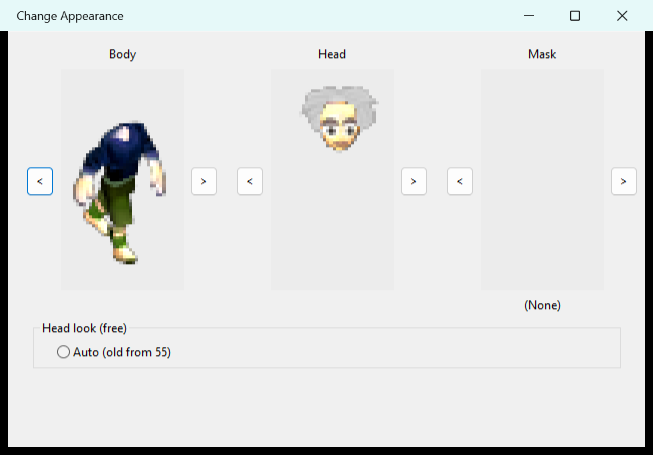
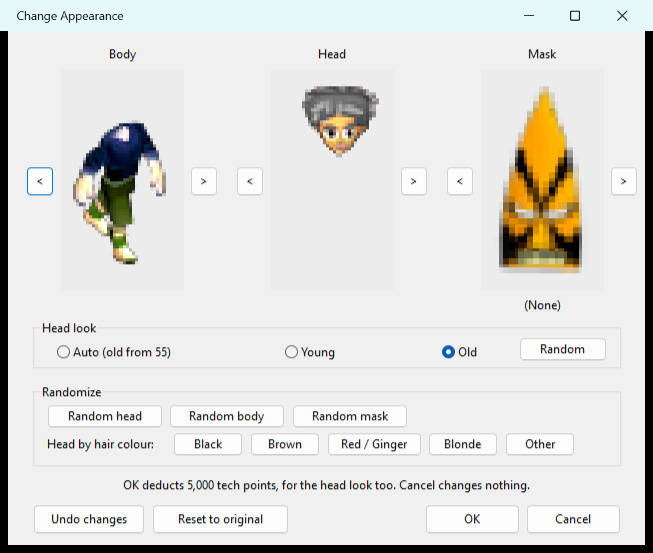
Docs: Change Appearance's new buttons and look rows -- README, How to Use, and pictures of every window
- README (v1.35.85 head-look entry): a look costs what any change costs; For All's per-sex Head look rows;
  Undo changes, Reset to original, the randoms and Head by hair colour in both windows.
- How to Use: a CHANGE APPEARANCE section.
- docs/change-appearance-head-look: each game's window with the look row, without it, and Change
  Appearance for All, rendered from the DLLs' own templates and art (scripts/render_change_appearance.py,
  which now also checks plain radio buttons, as A New Home's For All uses).  The Tree of Life's previews
  stay blank: its window draws the game's own Images\*.png at run time, which the repository does not hold.
- docs/transparency-log.md regenerated, last.

diff --git a/scripts/render_change_appearance.py b/scripts/render_change_appearance.py
@@ -114,7 +114,7 @@ def render(dll: Path, dialog: int, out: Path, previews: dict[int, tuple[int, int
                 style = user32.GetWindowLongW(child, -16)
                 name = ctypes.create_unicode_buffer(32)
                 user32.GetClassNameW(child, name, 32)
-                is_radio = name.value.lower() == "button" and style & 0xF == 9
+                is_radio = name.value.lower() == "button" and style & 0xF in (4, 9)   # BS_RADIOBUTTON, BS_AUTORADIOBUTTON
                 wanted = user32.GetDlgCtrlID(child) in checked if checked else style & 0x00020000   # first of a group
                 if is_radio and wanted:
                     user32.SendMessageW(child, 0x00F1, 1, 0)   # BM_SETCHECK

diff --git a/README.md b/README.md
@@ -25,7 +25,7 @@ prerequisite are rejected before any copied game folder or EXE is written.
 ## What's new in v1.35.85
 
 - **Grey Hair at 55** (A New Home, new, on by default). A villager of 55 years or more is now drawn with a grey-haired version of the same head, the age The Lost Children, The Secret City, The Tree of Life and New Believers switch to their older heads -- in the village, on the map and in the Villager Details portrait, and Change Appearance previews it the same way. Villagers already grey or bald look the same. The Golden Child's head follows the same rule: he himself never grows old, so he never changes, but anyone else given his head shows its old version from 55. Only the picture changes: the head number in the save stays the same, so logs, the Family Tree, genetics and Change Appearance read the same head as before. **Show Parents' small pictures of a child's parents and the Family Tree keep the usual heads.** The new "VVFP VV1 Grey Hair.dll" is started by VVFP Startup.dll and draws two new pictures, Images\vvfp_grey_male_heads.png and Images\vvfp_grey_female_heads.png; the game's own pictures are not changed. **Patch A New Home again** after updating. Not yet seen in a running game (checked by emulation on the stock exe).
-- **Change Appearance picks each villager's head look: Auto, Young or Old** (all five games, Enable Origins-Exclusive Features). Change Appearance on the Villager Details screen has a new "Head look" row: **Auto** keeps the game's own rule (the old, grey head from 55 years), **Young** always draws the young head and **Old** always the old, grey head -- so a 30-year-old can have grey hair and a 70-year-old can keep young hair. Every villager is Auto until you pick another, the preview shows the chosen look, and choosing a look is free (OK charges only when the head, body or mask changed too); Change Appearance for All leaves every look as it is. The head number in the save never changes, so logs, the Family Tree, genetics and the Heathen masks see the same head. The look is kept in the patcher's own file for the save (Virtual Villagers Fun Patcher\Save <slot>\Data\Head Looks) and follows the villager through deaths, reused records, renames and copied or restored saves; Start Over clears it and Back Up / Restore Saves carry it. **In A New Home the row shows only with Grey Hair at 55**, which draws the grey heads there. The new "VVFP Head Look.dll" is shipped with Origins and started by VVFP Startup.dll. **The Mausoleum's grave portraits (The Tree of Life, New Believers) still use the age at death.** **Patch A New Home, The Lost Children, The Secret City, The Tree of Life and New Believers again** after updating. Not yet seen in a running game (checked by emulation on the stock exes and every patched build).
+- **Change Appearance picks each villager's head look: Auto, Young or Old** (all five games, Enable Origins-Exclusive Features). Change Appearance on the Villager Details screen has a new "Head look" row: **Auto** keeps the game's own rule (the old, grey head from 55 years), **Young** always draws the young head and **Old** always the old, grey head -- so a 30-year-old can have grey hair and a 70-year-old can keep young hair. Every villager is Auto until you pick another, the preview shows the chosen look, and a new look costs what any change costs (5,000 tech points, a look alone too). **Change Appearance for All has a Head look row for the men and one for the women** -- Leave as is (the default), Auto, Young, Old or Random (Young or Old, for each villager) -- reaching only that sex's villagers the window covers. **Both windows have Undo changes** (every choice back to how the villager or village looks now, nothing kept or charged) **and Reset to original** (see Original Looks below); Change Appearance also has **Random head, Random body, Random mask, a Random look and Head by hair colour** (Black, Brown, Red / Ginger, Blonde, Other: the villager's own sex and the colour groups of Change Appearance for All), shown in the preview and rolled again on each press. Pictures of both windows in every game are in docs/change-appearance-head-look. The head number in the save never changes, so logs, the Family Tree, genetics and the Heathen masks see the same head. The look is kept in the patcher's own file for the save (Virtual Villagers Fun Patcher\Save <slot>\Data\Head Looks) and follows the villager through deaths, reused records, renames and copied or restored saves; Start Over clears it and Back Up / Restore Saves carry it. **In A New Home the row shows only with Grey Hair at 55**, which draws the grey heads there. The new "VVFP Head Look.dll" is shipped with Origins and started by VVFP Startup.dll. **The Mausoleum's grave portraits (The Tree of Life, New Believers) still use the age at death.** **Patch A New Home, The Lost Children, The Secret City, The Tree of Life and New Believers again** after updating. Not yet seen in a running game (checked by emulation on the stock exes and every patched build).
 - **Original Looks, for Change Appearance's Reset to original** (all five games, new, on by default; it brings Enable Origins-Exclusive Features with it). The patcher now notes each villager's original look -- the head, body and mask they had before any Change Appearance or island event changed them -- so Change Appearance and Change Appearance for All can put them back with **Reset to original** (the head look back to Auto too). **A look the game itself gives stays**: The Secret City's robe for a new Tribal Chief, and the outfit the game's own clothing dialog puts on (The Lost Children to New Believers), become part of the original. Change Appearance now also logs a change of the mask, alone or with the head and body: the "Appearance changed" record carries "Old mask" and "New mask". A look is noted the first time the patcher sees the villager: when they are born or arrive, or, in a village you already have, the first time you play it with this patch; a noted look is never written over. For villagers changed before, **Repair Saves & Logs** adds the original the logs prove -- the look before their earliest "Appearance changed" record -- and never guesses: where the logs cannot prove it, Reset to original says the original is not known. The looks are kept in the patcher's own file for the save (Virtual Villagers Fun Patcher\Save <slot>\Data\Original Looks), follow each villager through deaths, reloads and renames, are carried by Back Up / Restore Saves and cleared by Start Over. The new "VVFP Original Look.dll" is started by VVFP Startup.dll and changes nothing the game does. **Patch A New Home, The Lost Children, The Secret City, The Tree of Life and New Believers again** after updating. Not yet seen in a running game (checked on real files and by emulation on the stock exes).
 - **A New Home's Heathen Mask drawing is simpler, with no change in play** (Enable Origins-Exclusive Features). The mask code used to also hook the game's draw for the ripple under a villager standing in water, and then had to skip that ripple. That code never put a mask anywhere, so it is gone: the ripple's draw is the game's own again, and every head, child or adult, swimming or not, gets its mask exactly as before. **Patch A New Home again** after updating. Not yet seen in a running game (checked by emulation on the stock exe).
 
